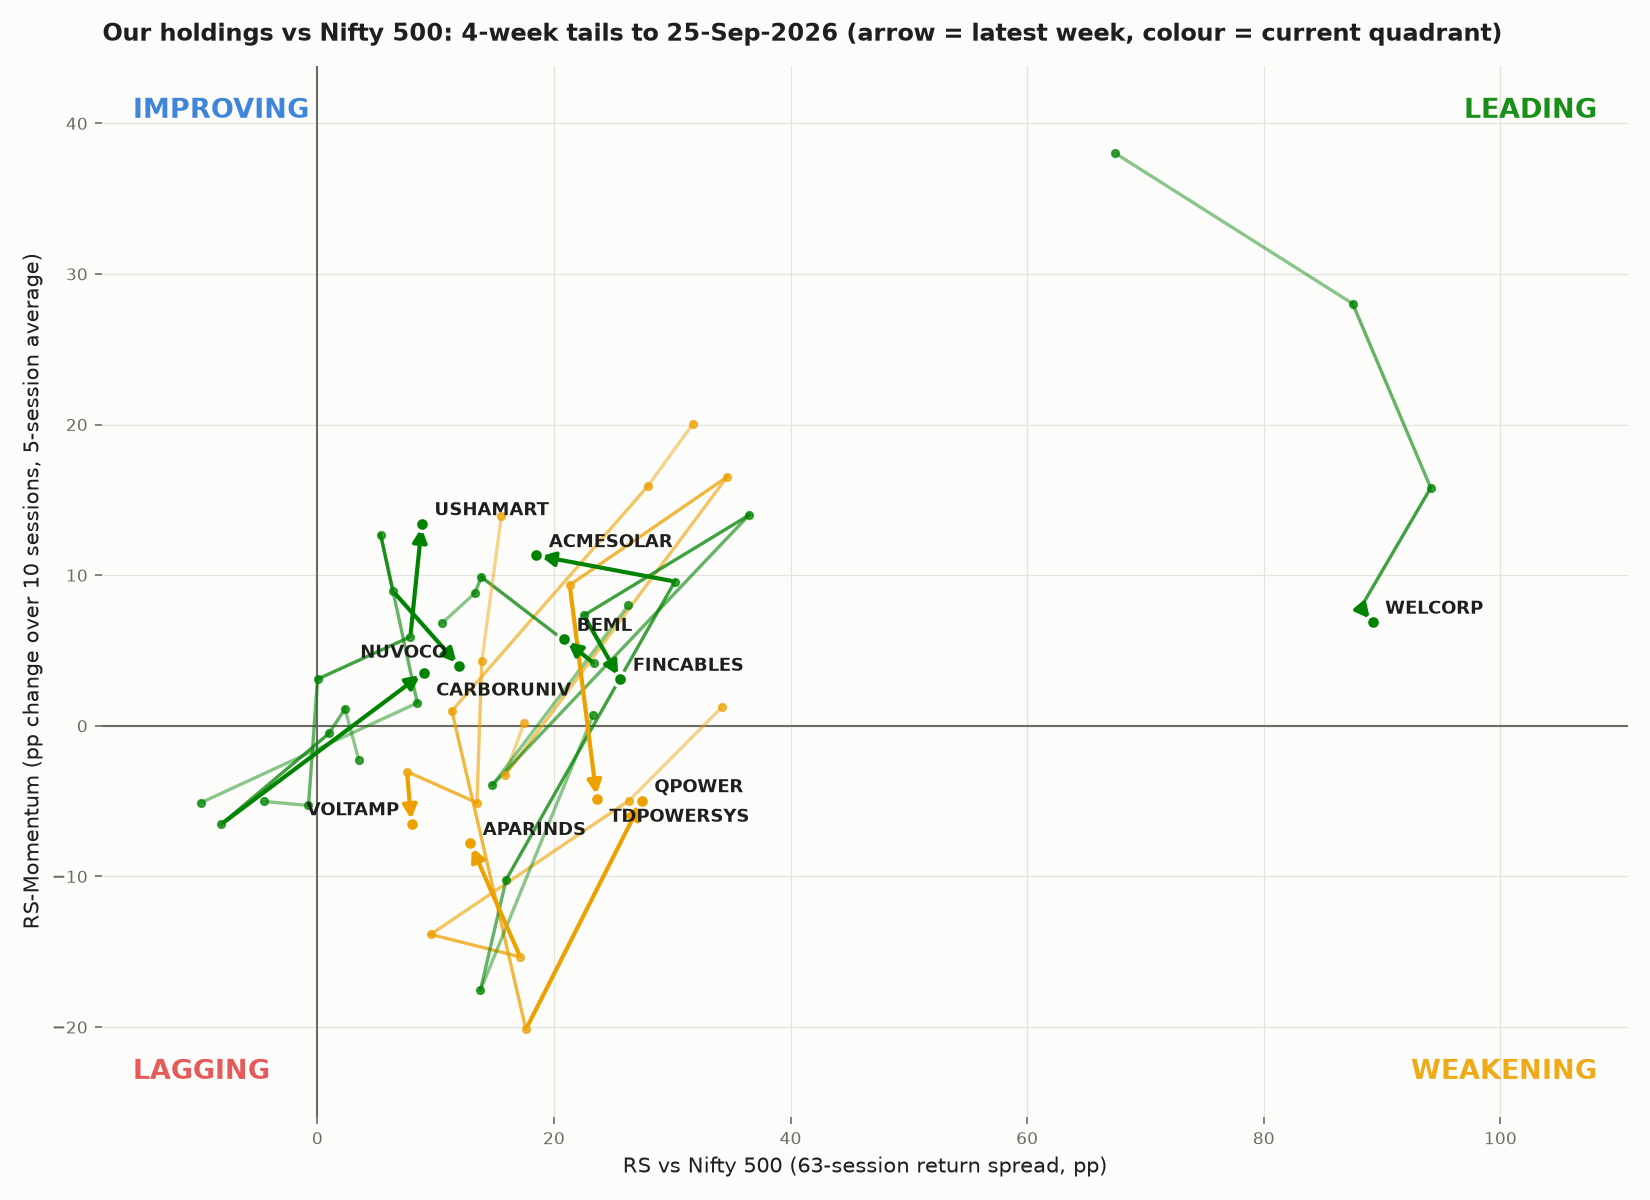
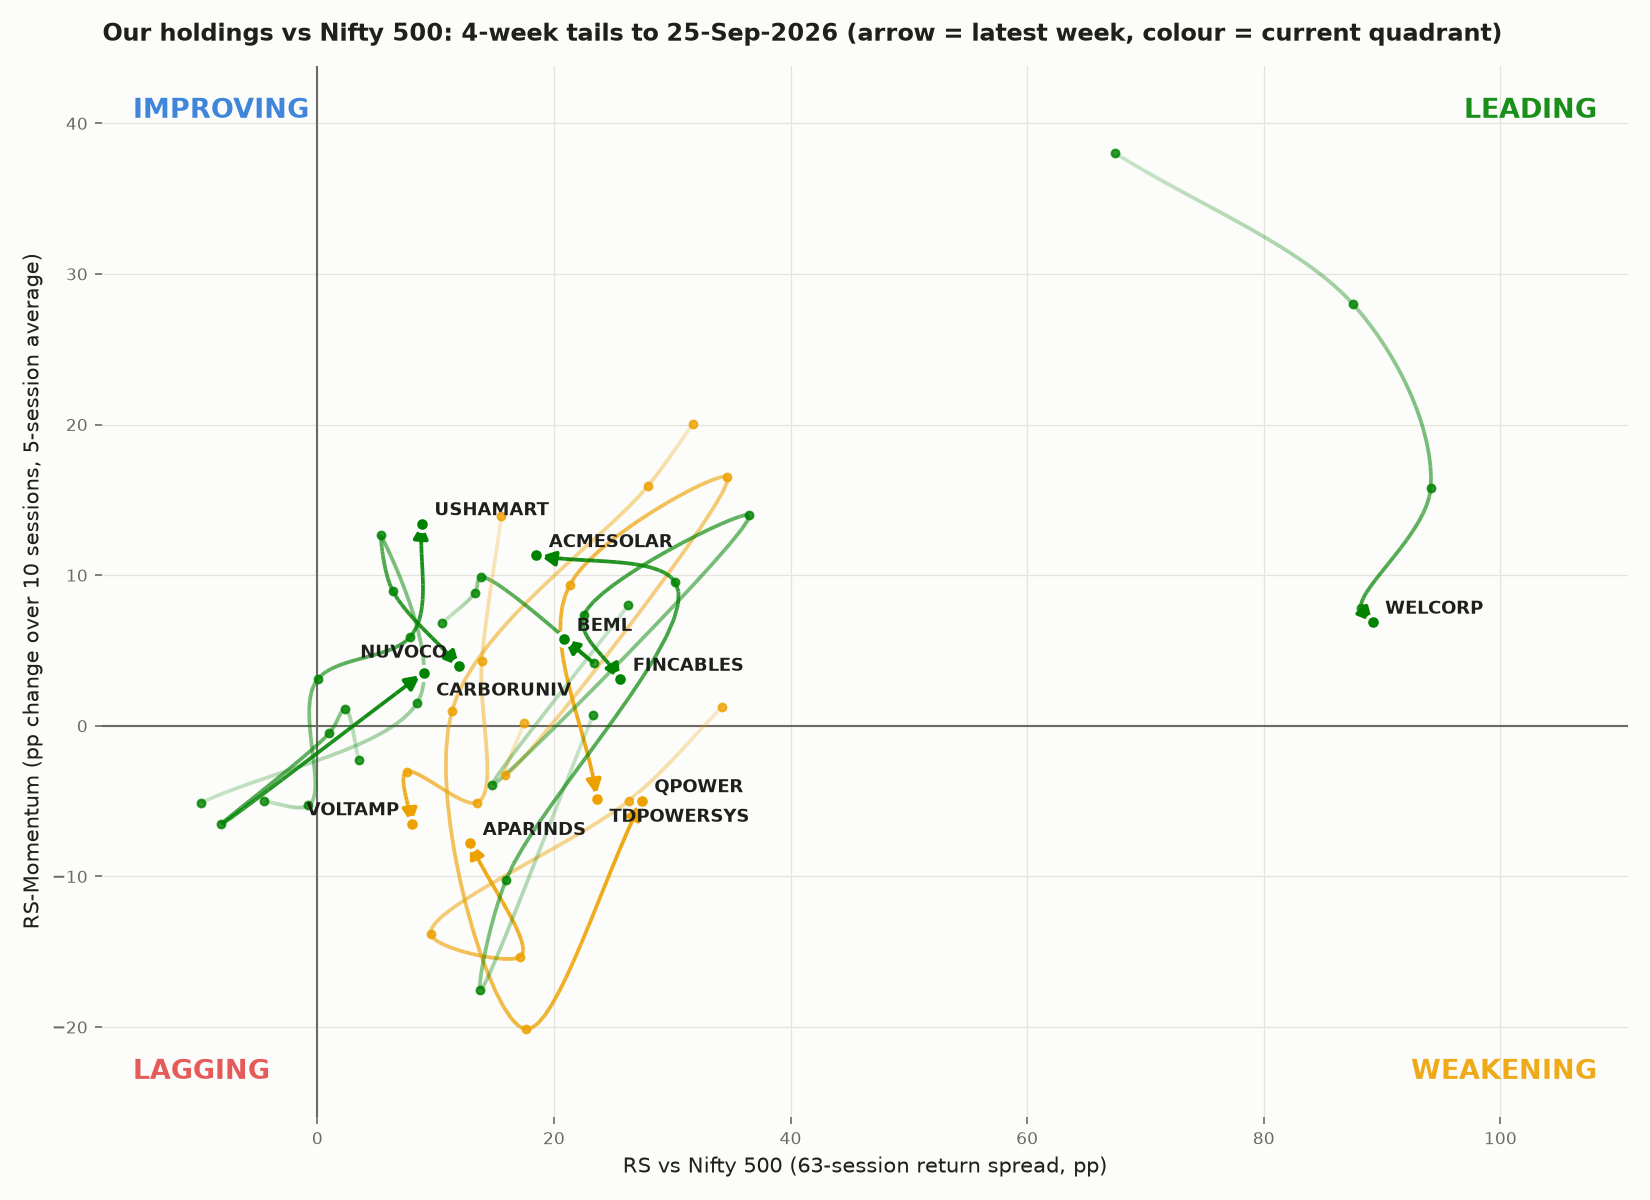
RRG tails drawn as smooth curves through the weekly points
Centripetal Catmull-Rom curves through the actual weekly RS/momentum points
(no overshoot; every point, and the latest, stays exact) replace straight
segments, in the static PNGs and the dashboard's interactive chart; a
test checks the curve passes through every point.

Claude-Session: https://claude.ai/code/session_018SrKZ3YP1T4SHJR1stpujJ

diff --git a/rrg_tails.py b/rrg_tails.py
@@ -116,6 +116,35 @@ def build_tails(stock_data: pd.DataFrame, benchmark: pd.DataFrame, sector_indice
             "sectors": pd.concat(sector_rows, ignore_index=True)[cols]}
 
 
+def smooth_path(x, y, x_scale: float = 1.0, y_scale: float = 1.0, samples: int = 16):
+    """
+    A smooth curve through every point (centripetal Catmull-Rom, which passes exactly through the
+    points and does not overshoot or loop between them). Only the drawing between the weekly points
+    is interpolated; each point, and so the latest one, stays exactly where the data puts it.
+    x_scale / y_scale put both axes on a comparable scale for the parameterisation.
+    """
+    p = np.column_stack([np.asarray(x, float) / x_scale, np.asarray(y, float) / y_scale])
+    if len(p) < 3:
+        return np.asarray(x, float), np.asarray(y, float)
+    p = np.vstack([2 * p[0] - p[1], p, 2 * p[-1] - p[-2]])  # reflected end points
+    out = [p[1]]
+    for i in range(1, len(p) - 2):
+        p0, p1, p2, p3 = p[i - 1], p[i], p[i + 1], p[i + 2]
+        t0 = 0.0
+        t1 = t0 + max(np.linalg.norm(p1 - p0) ** 0.5, 1e-9)
+        t2 = t1 + max(np.linalg.norm(p2 - p1) ** 0.5, 1e-9)
+        t3 = t2 + max(np.linalg.norm(p3 - p2) ** 0.5, 1e-9)
+        for t in np.linspace(t1, t2, samples + 1)[1:]:
+            a1 = (t1 - t) / (t1 - t0) * p0 + (t - t0) / (t1 - t0) * p1
+            a2 = (t2 - t) / (t2 - t1) * p1 + (t - t1) / (t2 - t1) * p2
+            a3 = (t3 - t) / (t3 - t2) * p2 + (t - t2) / (t3 - t2) * p3
+            b1 = (t2 - t) / (t2 - t0) * a1 + (t - t0) / (t2 - t0) * a2
+            b2 = (t3 - t) / (t3 - t1) * a2 + (t - t1) / (t3 - t1) * a3
+            out.append((t2 - t) / (t2 - t1) * b1 + (t - t1) / (t2 - t1) * b2)
+    out = np.array(out)
+    return out[:, 0] * x_scale, out[:, 1] * y_scale
+
+
 def plot_tails(tails: pd.DataFrame, title: str, out_path: Path, tail_names: Optional[List[str]] = None,
                emphasis: Optional[List[str]] = None, weeks: int = RRG_PLOT_TAIL_WEEKS) -> Path:
     """
@@ -156,14 +185,17 @@ def plot_tails(tails: pd.DataFrame, title: str, out_path: Path, tail_names: Opti
         head = t.iloc[-1]
         color = QUADRANT_STYLE.get(head["quadrant"], {"color": TEXT_MUTED})["color"]
         if name in with_tail and len(t) > 1:
-            n = len(t)
-            for i in range(1, n - 1):  # older segments fade
-                ax.plot(t["rs"].iloc[i - 1:i + 1], t["momentum"].iloc[i - 1:i + 1], color=color,
-                        alpha=0.3 + 0.6 * i / (n - 1), linewidth=1.6, zorder=2)
-            ax.annotate("", xy=(t["rs"].iloc[-1], t["momentum"].iloc[-1]),
-                        xytext=(t["rs"].iloc[-2], t["momentum"].iloc[-2]),
+            cx, cy = smooth_path(t["rs"], t["momentum"], x_span, y_span)
+            from matplotlib.collections import LineCollection
+            from matplotlib.colors import to_rgba
+
+            segments = np.stack([np.column_stack([cx[:-1], cy[:-1]]), np.column_stack([cx[1:], cy[1:]])], axis=1)
+            fade = np.linspace(0.2, 0.95, len(segments))  # older parts of the curve fade
+            ax.add_collection(LineCollection(segments, colors=[to_rgba(color, a) for a in fade], linewidths=1.8,
+                                             capstyle="butt", joinstyle="round", zorder=2))
+            ax.annotate("", xy=(cx[-1], cy[-1]), xytext=(cx[-2], cy[-2]),
                         arrowprops=dict(arrowstyle="-|>", color=color, lw=2, mutation_scale=14), zorder=3)
-            ax.scatter(t["rs"].iloc[:-1], t["momentum"].iloc[:-1], s=12, color=color, alpha=0.7, zorder=3)
+            ax.scatter(t["rs"].iloc[:-1], t["momentum"].iloc[:-1], s=14, color=color, alpha=0.8, zorder=3)
         big = name in emphasis
         ax.scatter([head["rs"]], [head["momentum"]], s=85 if big else 45, color=color,
                    edgecolors=TEXT_PRIMARY if big else SURFACE, linewidths=1.6, zorder=4)

diff --git a/app.py b/app.py
@@ -56,6 +56,7 @@ from refresh_data import (
     refresh_state,
     start_background_refresh,
 )
+from rrg_tails import smooth_path
 from sector_screen import review_table_path
 
 # -----------------------------------------------------------------------------
@@ -1003,6 +1004,8 @@ with tab_technicals:
                            key="tails_weeks")
         dates = sorted(tails_df["date"].unique())[-(weeks + 1):]
         shown = tails_df[tails_df["date"].isin(dates)].dropna(subset=["rs", "momentum"])
+        x_span = max(shown["rs"].max() - shown["rs"].min(), 10.0)
+        y_span = max(shown["momentum"].max() - shown["momentum"].min(), 6.0)
         fig_rrg = go.Figure()
         for name in names:
             t = shown[shown["name"] == name].sort_values("date")
@@ -1012,11 +1015,15 @@ with tab_technicals:
             colour = QUADRANT_COLOURS.get(head["quadrant"], "#6b6a63")
             hover = "<b>" + name + "</b><br>%{customdata}<br>RS %{x:.1f} pp, momentum %{y:+.1f} pp<extra></extra>"
             if name in picked and len(t) > 1:
+                cx, cy = smooth_path(t["rs"], t["momentum"], x_span, y_span)
+                fig_rrg.add_trace(go.Scatter(x=cx, y=cy, mode="lines", showlegend=False, hoverinfo="skip",
+                                             line=dict(color=colour, width=2.2)))
                 fig_rrg.add_trace(go.Scatter(
-                    x=t["rs"], y=t["momentum"], mode="lines+markers", name=name, showlegend=False,
-                    line=dict(color=colour, width=2), customdata=pd.to_datetime(t["date"]).dt.strftime("%d-%b"),
-                    marker=dict(size=[6] * (len(t) - 1) + [15], color=colour,
-                                symbol=["circle"] * (len(t) - 1) + ["arrow"], angleref="previous",
+                    x=list(t["rs"].iloc[:-1]) + [cx[-2], cx[-1]], y=list(t["momentum"].iloc[:-1]) + [cy[-2], cy[-1]],
+                    mode="markers", name=name, showlegend=False,
+                    customdata=list(pd.to_datetime(t["date"]).dt.strftime("%d-%b").iloc[:-1]) + ["", pd.Timestamp(head["date"]).strftime("%d-%b")],
+                    marker=dict(size=[7] * (len(t) - 1) + [0, 16], color=colour,
+                                symbol=["circle"] * (len(t) - 1) + ["circle", "arrow"], angleref="previous",
                                 line=dict(color="#FFFFFF", width=1)),
                     hovertemplate=hover))
             else:
@@ -1038,7 +1045,8 @@ with tab_technicals:
         st.plotly_chart(fig_rrg, width="stretch")
         st.caption(
             f"Each dot is one week's close ({pd.Timestamp(dates[0]):%d-%b} to {pd.Timestamp(dates[-1]):%d-%b-%Y}); the arrow is "
-            "the latest week and shows the direction of rotation; colour = the current quadrant. Healthy rotation runs "
+            "the latest week and shows the direction of rotation; colour = the current quadrant. The curve is drawn "
+            "through the weekly points (only the line between them is interpolated; every dot is the actual value). Healthy rotation runs "
             "clockwise: IMPROVING → LEADING → WEAKENING → LAGGING. Same RS and momentum as the tables above (percentage "
             "points centred on 0, not StockCharts' proprietary JdK scale centred on 100; the quadrants mean the same). "
             "Our sub-themes are equal-weighted baskets of our universe; 'Our portfolio' uses the current weights."

diff --git a/tests/test_rrg_tails.py b/tests/test_rrg_tails.py
@@ -32,3 +32,14 @@ def test_committed_tails_end_at_the_review_table_values():
         assert heads.loc[sym, "rs"] == pytest.approx(review.loc[sym, "rs_score_vs_nifty500"], abs=0.01)
         assert heads.loc[sym, "momentum"] == pytest.approx(review.loc[sym, "rs_momentum_vs_nifty500"], abs=0.01)
         assert heads.loc[sym, "quadrant"] == review.loc[sym, "rrg_quadrant_vs_nifty500"]
+
+
+def test_smooth_path_passes_through_every_weekly_point():
+    import numpy as np
+    from rrg_tails import smooth_path
+    x, y = [0.0, 5.0, 3.0, 10.0, 12.0], [0.0, 4.0, -2.0, 1.0, 6.0]
+    cx, cy = smooth_path(x, y, x_scale=12, y_scale=8, samples=10)
+    for i in range(len(x)):  # points sit every `samples` steps along the curve
+        assert (cx[i * 10], cy[i * 10]) == pytest.approx((x[i], y[i]))
+    assert (cx[-1], cy[-1]) == pytest.approx((x[-1], y[-1]))  # the head is the actual latest value
+    assert len(cx) == (len(x) - 1) * 10 + 1 and np.isfinite(cx).all()
